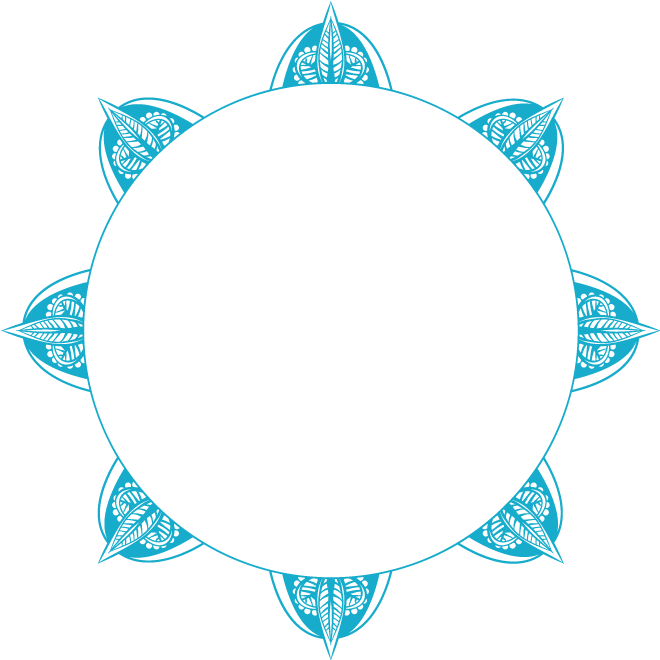
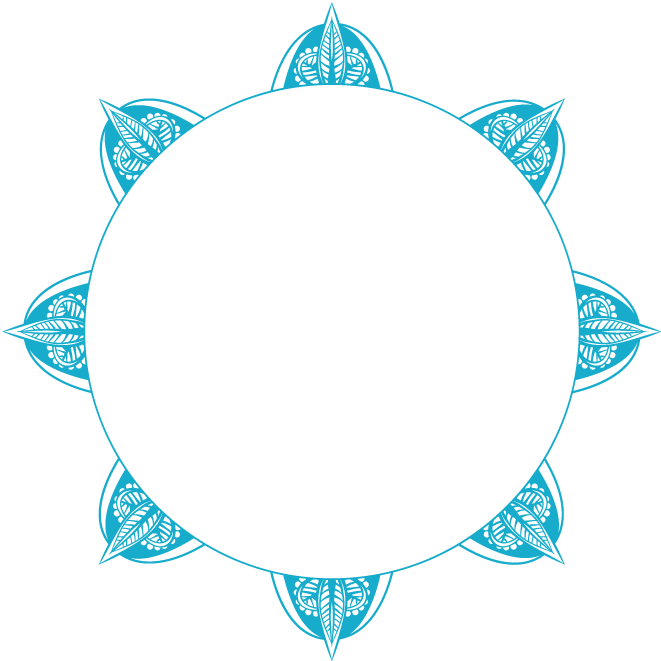
Updated hero rings with hover state for depth

diff --git a/src/components/Hero/ZenCircle/ZenCircle.css b/src/components/Hero/ZenCircle/ZenCircle.css
@@ -4,7 +4,6 @@
   left: 0;
   width: 100%;
   height: 100%;
-  opacity: 0.075;
   overflow: hidden;
 }
 
@@ -13,25 +12,32 @@
   top: 50%;
   left: 50%;
   transform: translate(-50%,-50%);
+  opacity: 0.075;
+  transition: all .3s ease;
+  border-radius: 50%;
 }
 
-.ZenCircle img:first-of-type {
+.ZenCircle img:hover {
+  opacity: 0.2;
+}
+
+.ZenCircle img#circleOne {
   animation: zenSpin 40s linear infinite forwards;
 }
 
-.ZenCircle img:nth-of-type(2) {
+.ZenCircle img#circleTwo {
   animation: zenSpin 40s linear infinite forwards;
 }
 
-.ZenCircle img:nth-of-type(3) {
+.ZenCircle img#circleThree {
   animation: zenSpin 40s linear infinite reverse;
 }
 
-.ZenCircle img:nth-of-type(4) {
+.ZenCircle img#circleFour {
   animation: zenSpin 20s linear infinite forwards;
 }
 
-.ZenCircle img:last-of-type {
+.ZenCircle img#circleFive {
   animation: zenSpin 40s linear infinite forwards;
 }
 

diff --git a/src/components/Hero/ZenCircle/ZenCircle.js b/src/components/Hero/ZenCircle/ZenCircle.js
@@ -8,11 +8,11 @@ import zenFive from './zen-5.png';
 
 const ZenCircle = () => (
   <div className="ZenCircle">
-    <img src={zenOne} alt="zen circle"/>
-    <img src={zenTwo} alt="zen circle"/>
-    <img src={zenThree} alt="zen circle"/>
-    <img src={zenFour} alt="zen circle"/>
-    <img src={zenFive} alt="zen circle"/>
+    <img id="circleOne" src={zenOne} alt="zen circle"/>
+    <img id="circleTow" src={zenTwo} alt="zen circle"/>
+    <img id="circleThree" src={zenThree} alt="zen circle"/>
+    <img id="circleFour" src={zenFour} alt="zen circle"/>
+    <img id="circleFive" src={zenFive} alt="zen circle"/>
   </div>
 );
 

diff --git a/src/components/Hero/Hero.css b/src/components/Hero/Hero.css
@@ -12,6 +12,7 @@
 .Hero-logo {
   position: relative;
   margin-bottom: var(--large);
+  pointer-events: none;
 }
 
 .Hero h1 {
@@ -20,6 +21,7 @@
   font-size: var(--xlarge);
   font-weight: 500;
   margin: 0;
+  pointer-events: none;
 }
 
 .Hero h2 {
@@ -29,6 +31,7 @@
   font-size: 30px;
   font-weight: 300;
   margin: var(--small) 0 6rem;
+  pointer-events: none;
 }
 
 .Hero h2 span {
